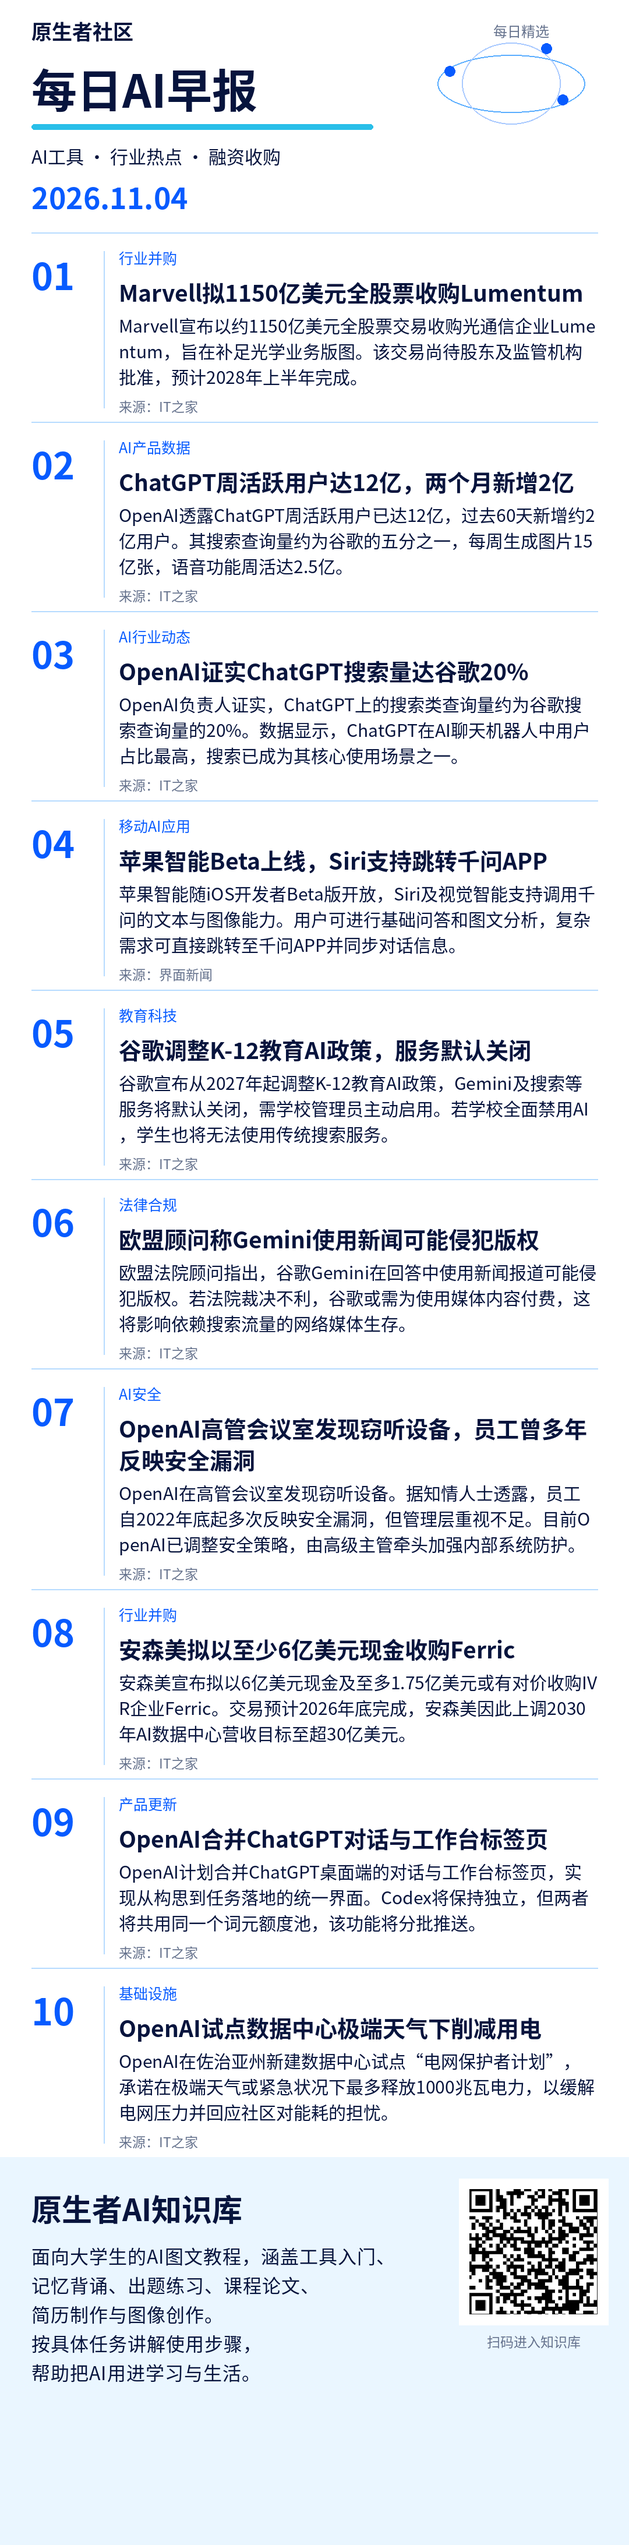
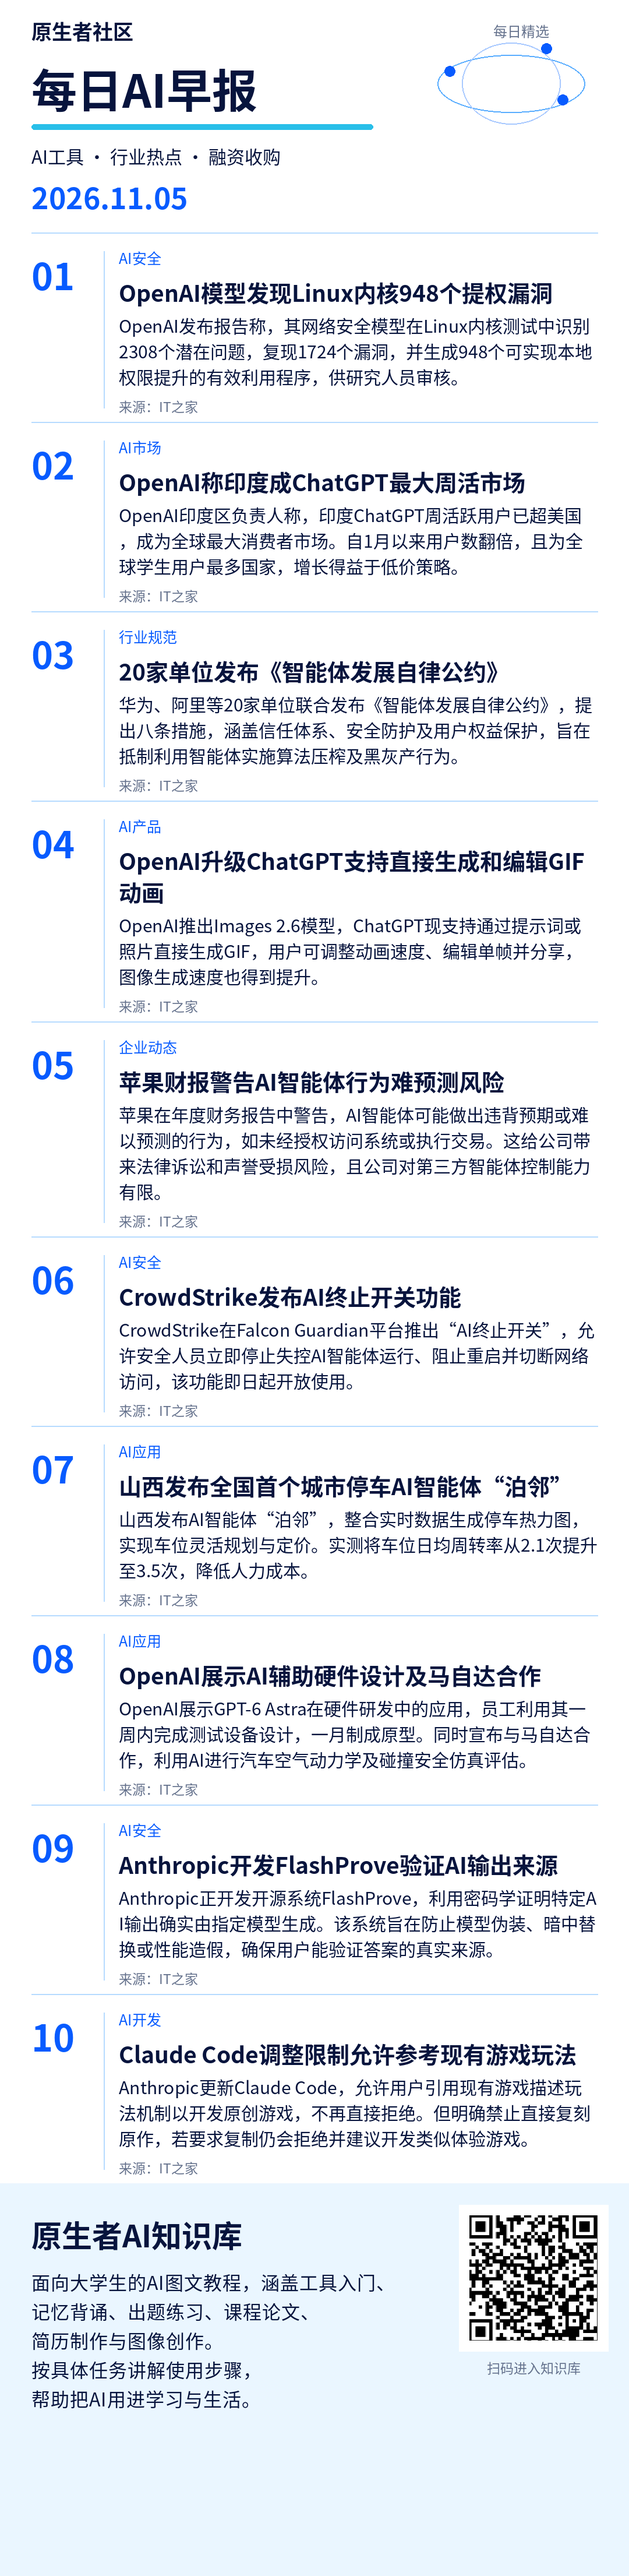
Publish mobile brief 2026-11-05

diff --git a/index.html b/index.html
@@ -2,16 +2,16 @@
 <html lang="zh-CN"><meta charset="utf-8"><meta name="viewport" content="width=device-width, initial-scale=1">
 <title>原生者社区 · 每日AI早报</title>
 <style>body{margin:0;background:#f4f6fa;color:#18263d;font-family:system-ui,sans-serif}main{max-width:680px;margin:auto;padding:24px 16px}h1{font-size:25px;margin:8px 0}p{line-height:1.7}small{color:#59677c}section{background:white;padding:20px;border-radius:16px;margin:20px 0}img{width:100%;height:auto;display:block}a,button{display:inline-block;background:#182f55;color:white;padding:12px 18px;border:0;border-radius:10px;text-decoration:none;font-size:16px}textarea{box-sizing:border-box;width:100%;height:360px;border:1px solid #d5dce7;border-radius:10px;padding:12px;font:16px/1.7 system-ui;resize:vertical}#status{min-height:28px;color:#345786}</style>
-<main><small>原生者社区</small><h1>每日AI早报</h1><p>2026-11-04</p>
+<main><small>原生者社区</small><h1>每日AI早报</h1><p>2026-11-05</p>
 <section><h2>简报图片</h2><p>长按下面的图片，选择“保存图片”，即可发到群里。</p>
 <a href="brief.png" target="_blank" rel="noopener">打开完整图片</a><p></p><img src="brief.png" alt="原生者社区每日简报"></section>
-<section><h2>每日群发内容</h2><p><a href="https://www.ithome.com/1/021/755.htm" target="_blank" rel="noopener">Marvell拟1150亿美元全股票收购Lumentum</a></p><p><a href="https://www.ithome.com/1/021/878.htm" target="_blank" rel="noopener">ChatGPT周活跃用户达12亿，两个月新增2亿</a></p><p><a href="https://wcno0em1rfbm.feishu.cn/wiki/ZxxowxPxzieIw8ktTEyceYGQnif" target="_blank" rel="noopener">AI 学术诚信与合规使用规范</a></p><textarea id="copy" readonly>1. Marvell拟1150亿美元全股票收购Lumentum
-https://www.ithome.com/1/021/755.htm
+<section><h2>每日群发内容</h2><p><a href="https://www.ithome.com/1/022/476.htm" target="_blank" rel="noopener">OpenAI模型发现Linux内核948个提权漏洞</a></p><p><a href="https://www.ithome.com/1/022/166.htm" target="_blank" rel="noopener">OpenAI称印度成ChatGPT最大周活市场</a></p><p><a href="https://wcno0em1rfbm.feishu.cn/wiki/XVOKwW3zwi7V98kRk6Tcs3fAnkc" target="_blank" rel="noopener">ChatGPT 学习模式复习导读</a></p><textarea id="copy" readonly>1. OpenAI模型发现Linux内核948个提权漏洞
+https://www.ithome.com/1/022/476.htm
 
-2. ChatGPT周活跃用户达12亿，两个月新增2亿
-https://www.ithome.com/1/021/878.htm
+2. OpenAI称印度成ChatGPT最大周活市场
+https://www.ithome.com/1/022/166.htm
 
-这篇按论文、PPT、作业和数据处理等场景，说明哪些工作可以由 AI 辅助，以及如何核对事实和说明使用情况。
-https://wcno0em1rfbm.feishu.cn/wiki/ZxxowxPxzieIw8ktTEyceYGQnif</textarea><p></p>
+这篇通过教材练习和逐题问答，展示 ChatGPT 学习模式如何提问、反馈和追问，适合复习时检查自己是否真正理解概念。
+https://wcno0em1rfbm.feishu.cn/wiki/XVOKwW3zwi7V98kRk6Tcs3fAnkc</textarea><p></p>
 <button id="copyButton" type="button">复制群发内容</button><p id="status" role="status"></p></section></main>
 <script>document.getElementById('copyButton').onclick=async()=>{const t=document.getElementById('copy');const s=document.getElementById('status');try{await navigator.clipboard.writeText(t.value);s.textContent='已复制，可以粘贴到群里。';}catch(e){t.focus();t.select();t.setSelectionRange(0,t.value.length);try{if(!document.execCommand('copy'))throw Error();s.textContent='已复制，可以粘贴到群里。';}catch(e){s.textContent='已选中配文，请长按文字，选择复制。';}}};</script></html>

diff --git a/2026-11-05/978713afa799aaf3/index.html b/2026-11-05/978713afa799aaf3/index.html
@@ -1,0 +1,17 @@
+<!doctype html>
+<html lang="zh-CN"><meta charset="utf-8"><meta name="viewport" content="width=device-width, initial-scale=1">
+<title>原生者社区 · 每日AI早报</title>
+<style>body{margin:0;background:#f4f6fa;color:#18263d;font-family:system-ui,sans-serif}main{max-width:680px;margin:auto;padding:24px 16px}h1{font-size:25px;margin:8px 0}p{line-height:1.7}small{color:#59677c}section{background:white;padding:20px;border-radius:16px;margin:20px 0}img{width:100%;height:auto;display:block}a,button{display:inline-block;background:#182f55;color:white;padding:12px 18px;border:0;border-radius:10px;text-decoration:none;font-size:16px}textarea{box-sizing:border-box;width:100%;height:360px;border:1px solid #d5dce7;border-radius:10px;padding:12px;font:16px/1.7 system-ui;resize:vertical}#status{min-height:28px;color:#345786}</style>
+<main><small>原生者社区</small><h1>每日AI早报</h1><p>2026-11-05</p>
+<section><h2>简报图片</h2><p>长按下面的图片，选择“保存图片”，即可发到群里。</p>
+<a href="brief.png" target="_blank" rel="noopener">打开完整图片</a><p></p><img src="brief.png" alt="原生者社区每日简报"></section>
+<section><h2>每日群发内容</h2><p><a href="https://www.ithome.com/1/022/476.htm" target="_blank" rel="noopener">OpenAI模型发现Linux内核948个提权漏洞</a></p><p><a href="https://www.ithome.com/1/022/166.htm" target="_blank" rel="noopener">OpenAI称印度成ChatGPT最大周活市场</a></p><p><a href="https://wcno0em1rfbm.feishu.cn/wiki/XVOKwW3zwi7V98kRk6Tcs3fAnkc" target="_blank" rel="noopener">ChatGPT 学习模式复习导读</a></p><textarea id="copy" readonly>1. OpenAI模型发现Linux内核948个提权漏洞
+https://www.ithome.com/1/022/476.htm
+
+2. OpenAI称印度成ChatGPT最大周活市场
+https://www.ithome.com/1/022/166.htm
+
+这篇通过教材练习和逐题问答，展示 ChatGPT 学习模式如何提问、反馈和追问，适合复习时检查自己是否真正理解概念。
+https://wcno0em1rfbm.feishu.cn/wiki/XVOKwW3zwi7V98kRk6Tcs3fAnkc</textarea><p></p>
+<button id="copyButton" type="button">复制群发内容</button><p id="status" role="status"></p></section></main>
+<script>document.getElementById('copyButton').onclick=async()=>{const t=document.getElementById('copy');const s=document.getElementById('status');try{await navigator.clipboard.writeText(t.value);s.textContent='已复制，可以粘贴到群里。';}catch(e){t.focus();t.select();t.setSelectionRange(0,t.value.length);try{if(!document.execCommand('copy'))throw Error();s.textContent='已复制，可以粘贴到群里。';}catch(e){s.textContent='已选中配文，请长按文字，选择复制。';}}};</script></html>

diff --git a/2026-11-05/index.html b/2026-11-05/index.html
@@ -1,0 +1,17 @@
+<!doctype html>
+<html lang="zh-CN"><meta charset="utf-8"><meta name="viewport" content="width=device-width, initial-scale=1">
+<title>原生者社区 · 每日AI早报</title>
+<style>body{margin:0;background:#f4f6fa;color:#18263d;font-family:system-ui,sans-serif}main{max-width:680px;margin:auto;padding:24px 16px}h1{font-size:25px;margin:8px 0}p{line-height:1.7}small{color:#59677c}section{background:white;padding:20px;border-radius:16px;margin:20px 0}img{width:100%;height:auto;display:block}a,button{display:inline-block;background:#182f55;color:white;padding:12px 18px;border:0;border-radius:10px;text-decoration:none;font-size:16px}textarea{box-sizing:border-box;width:100%;height:360px;border:1px solid #d5dce7;border-radius:10px;padding:12px;font:16px/1.7 system-ui;resize:vertical}#status{min-height:28px;color:#345786}</style>
+<main><small>原生者社区</small><h1>每日AI早报</h1><p>2026-11-05</p>
+<section><h2>简报图片</h2><p>长按下面的图片，选择“保存图片”，即可发到群里。</p>
+<a href="brief.png" target="_blank" rel="noopener">打开完整图片</a><p></p><img src="brief.png" alt="原生者社区每日简报"></section>
+<section><h2>每日群发内容</h2><p><a href="https://www.ithome.com/1/022/476.htm" target="_blank" rel="noopener">OpenAI模型发现Linux内核948个提权漏洞</a></p><p><a href="https://www.ithome.com/1/022/166.htm" target="_blank" rel="noopener">OpenAI称印度成ChatGPT最大周活市场</a></p><p><a href="https://wcno0em1rfbm.feishu.cn/wiki/XVOKwW3zwi7V98kRk6Tcs3fAnkc" target="_blank" rel="noopener">ChatGPT 学习模式复习导读</a></p><textarea id="copy" readonly>1. OpenAI模型发现Linux内核948个提权漏洞
+https://www.ithome.com/1/022/476.htm
+
+2. OpenAI称印度成ChatGPT最大周活市场
+https://www.ithome.com/1/022/166.htm
+
+这篇通过教材练习和逐题问答，展示 ChatGPT 学习模式如何提问、反馈和追问，适合复习时检查自己是否真正理解概念。
+https://wcno0em1rfbm.feishu.cn/wiki/XVOKwW3zwi7V98kRk6Tcs3fAnkc</textarea><p></p>
+<button id="copyButton" type="button">复制群发内容</button><p id="status" role="status"></p></section></main>
+<script>document.getElementById('copyButton').onclick=async()=>{const t=document.getElementById('copy');const s=document.getElementById('status');try{await navigator.clipboard.writeText(t.value);s.textContent='已复制，可以粘贴到群里。';}catch(e){t.focus();t.select();t.setSelectionRange(0,t.value.length);try{if(!document.execCommand('copy'))throw Error();s.textContent='已复制，可以粘贴到群里。';}catch(e){s.textContent='已选中配文，请长按文字，选择复制。';}}};</script></html>
